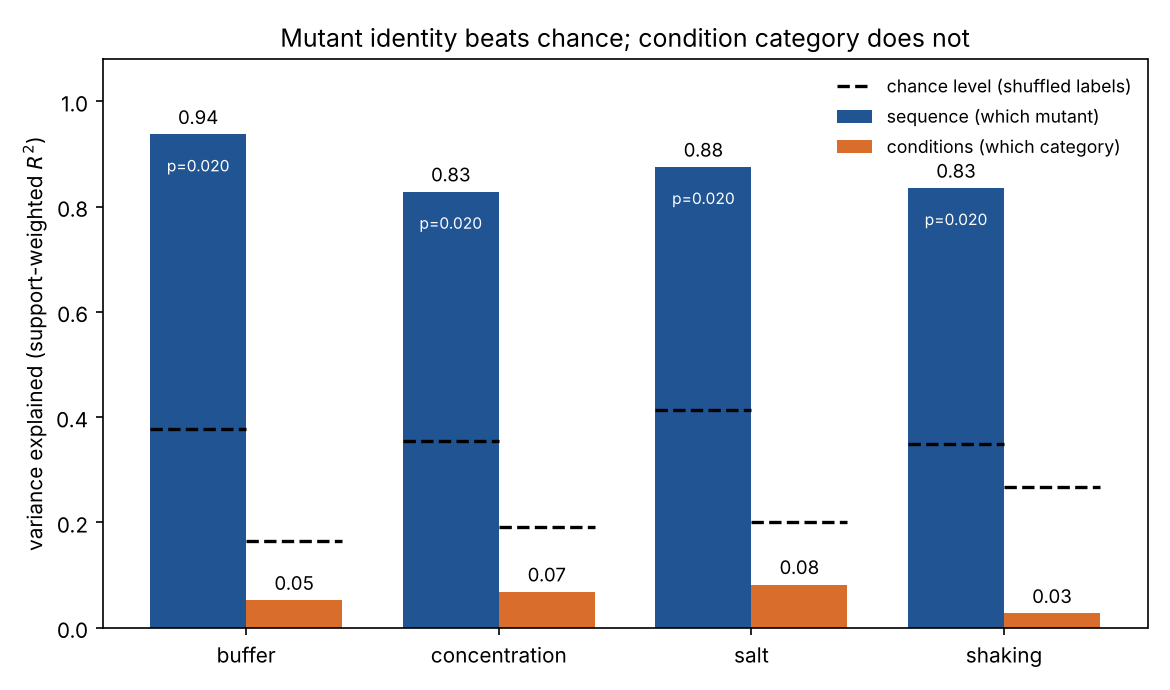
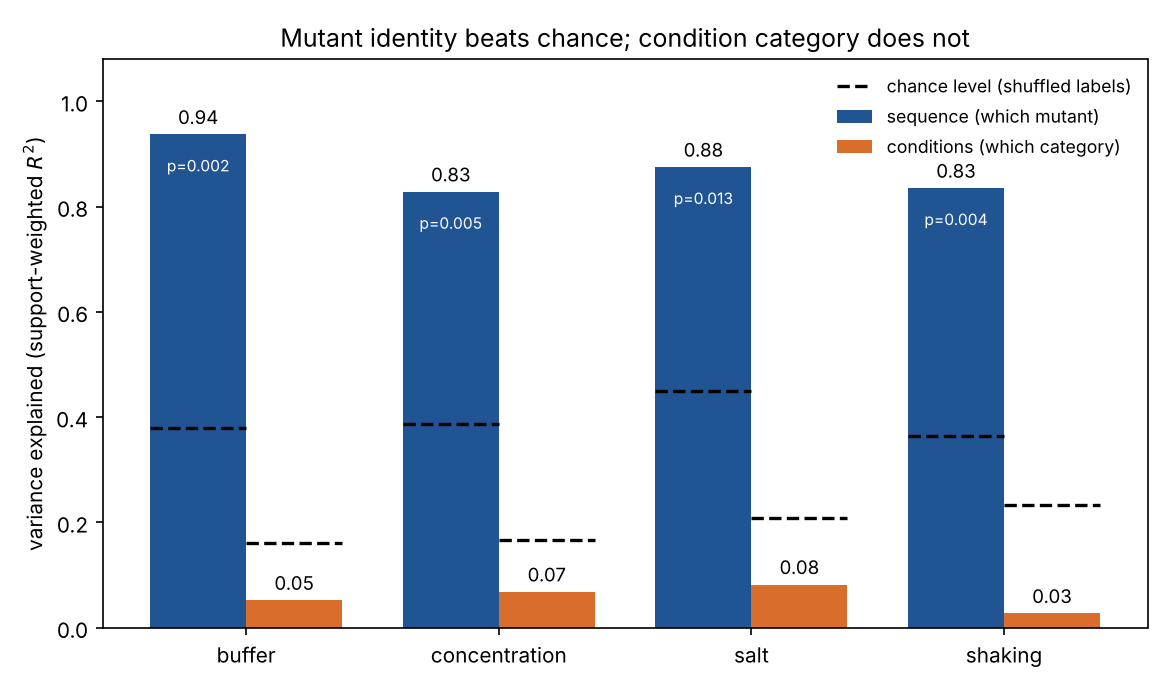
Fix review findings: broken CLI, test side effects, silent failure
1. discordance.py crashed when run as a script. Its __main__ block sat above
   vote_split(), so the function did not exist yet at call time (NameError).
   Moved the block to the end of the file. All 29 tests passed because every
   one imports functions directly; none ran a module as a script.

2. Tests were overwriting the repo's real analysis artifacts. The figure test
   calls si_report.run(n_perm=50), and run() wrote reports/permutation_test.csv
   as a side effect, so pytest replaced the full 1000-permutation output with
   50-permutation values. The committed p_mutant column read 0.0196 for all
   four dimensions, which is 1/51 - the floor of a 50-permutation test, not a
   measured value. The CSV write now lives in the CLI, the figure test writes
   to tmp_path, and the artifacts are regenerated at full resolution
   (p = 0.002-0.013). Published numbers in README and SI_FINDINGS were already
   the correct ones and are unchanged.

3. si_report.run() swallowed every exception around the vote-split figure, so
   a failure would leave a broken image in the README while reporting success.
   Narrowed to FileNotFoundError with a printed message.

4. Removed a dead import in fig_vote_split.

Adds a smoke test running each module as a script, which is the gap that let
finding 1 through. 35 tests green.

diff --git a/src/asyn/si_report.py b/src/asyn/si_report.py
@@ -16,7 +16,7 @@ matplotlib.use("Agg")
 import matplotlib.pyplot as plt  # noqa: E402
 import numpy as np  # noqa: E402
 
-from . import si_analysis  # noqa: E402
+from . import discordance, si_analysis  # noqa: E402
 
 FIG_DIR = Path("reports/figures")
 SEQ_C, COND_C = "#205493", "#d96d2b"
@@ -90,17 +90,14 @@ def _save(fig, name) -> Path:
 def run(n_perm: int = 1000) -> list[Path]:
     df = si_analysis.load()
     perm = si_analysis.permutation_test(df, n_perm=n_perm)
-    Path("reports").mkdir(exist_ok=True)
-    perm.to_csv("reports/permutation_test.csv", index=False)
     figs = [fig_variance(perm), fig_scores_by_mutant(df)]
     types = si_analysis.TYPES_CSV
     if types.exists():
         figs.append(fig_type_by_domain(si_analysis.type_by_domain(si_analysis.load_types())))
     try:
-        from . import discordance
         figs.append(fig_vote_split(discordance.vote_split()))
-    except Exception:
-        pass  # optional: vote reconstruction needs type_scores.csv
+    except FileNotFoundError:
+        print("skipped vote-split figure: data/type_scores.csv missing")
     return figs
 
 
@@ -131,7 +128,6 @@ def fig_type_by_domain(mat) -> Path:
 
 def fig_vote_split(votes, top: int = 14) -> Path:
     """Stacked votes per mutation type: who says accelerate vs reduce."""
-    from . import discordance  # local import: optional analysis
     d = votes.head(top).iloc[::-1]
     labels = [f"{r['type']}  ({r.scope.replace('_',' ')})" for _, r in d.iterrows()]
     y = np.arange(len(d))
@@ -151,5 +147,10 @@ def fig_vote_split(votes, top: int = 14) -> Path:
 
 
 if __name__ == "__main__":
+    _df = si_analysis.load()
+    Path("reports").mkdir(exist_ok=True)
+    si_analysis.permutation_test(_df).to_csv(
+        "reports/permutation_test.csv", index=False)
+    print("wrote reports/permutation_test.csv")
     for p in run():
         print(f"wrote {p}")

diff --git a/src/asyn/discordance.py b/src/asyn/discordance.py
@@ -121,20 +121,6 @@ def run() -> dict:
             "by_region": by_region(t), "headlines": headline_robustness(t)}
 
 
-if __name__ == "__main__":
-    r = run()
-    print(f"extraction sanity — rows breaching the sd bound: {len(r['violations'])}\n")
-    s = r["scored"]
-    print("MOST CONTESTED (literature splits):")
-    print(s.head(8).to_string(index=False))
-    print("\nMOST CONSISTENT:")
-    print(s.tail(6).to_string(index=False))
-    print("\nBY REGION:")
-    print(r["by_region"].to_string(index=False))
-    print("\nMOST SPLIT (papers pointing opposite ways):")
-    print(vote_split().head(5).to_string(index=False))
-    print("\nDO OUR OWN HEADLINES REST ON AGREEMENT?")
-    print(r["headlines"].to_string(index=False))
 
 
 def vote_split(df: pd.DataFrame | None = None, min_support: int = 5) -> pd.DataFrame:
@@ -176,3 +162,18 @@ def vote_split(df: pd.DataFrame | None = None, min_support: int = 5) -> pd.DataF
                "n_reduce", "split", "integrality_error"]]
             .sort_values(["split", "support"], ascending=[False, False])
             .reset_index(drop=True))
+
+if __name__ == "__main__":
+    r = run()
+    print(f"extraction sanity — rows breaching the sd bound: {len(r['violations'])}\n")
+    s = r["scored"]
+    print("MOST CONTESTED (literature splits):")
+    print(s.head(8).to_string(index=False))
+    print("\nMOST CONSISTENT:")
+    print(s.tail(6).to_string(index=False))
+    print("\nBY REGION:")
+    print(r["by_region"].to_string(index=False))
+    print("\nMOST SPLIT (papers pointing opposite ways):")
+    print(vote_split().head(5).to_string(index=False))
+    print("\nDO OUR OWN HEADLINES REST ON AGREEMENT?")
+    print(r["headlines"].to_string(index=False))

diff --git a/tests/test_si.py b/tests/test_si.py
@@ -26,8 +26,11 @@ def test_sequence_explains_more_than_conditions():
     assert (ve["r2_sequence_mutant"] > ve["r2_conditions_category"]).all()
 
 
-def test_si_report_writes_figures():
+def test_si_report_writes_figures(tmp_path, monkeypatch):
     from asyn import si_report
+    # Write into a temp dir: tests must not clobber the repo's real figures,
+    # which are generated at full permutation count by the CLI.
+    monkeypatch.setattr(si_report, "FIG_DIR", tmp_path)
     paths = si_report.run(n_perm=50)  # figures only; rigour lives in the CLI run
     assert len(paths) >= 2 and all(p.exists() and p.stat().st_size > 1000 for p in paths)
 
@@ -141,3 +144,20 @@ def test_proline_substitution_is_unanimous_in_direction():
     assert len(pro) >= 3
     assert (pro["n_accel"] == 0).all()
     assert (pro["split"] == 0).all()
+
+
+@pytest.mark.parametrize("module", [
+    "ingest_si", "ingest_types", "ingest_flagmeier",
+    "si_analysis", "cross_study", "discordance",
+])
+def test_module_runs_as_a_script(module):
+    """Each module documents `python -m asyn.<name>`; check it actually runs.
+
+    si_report is excluded: its CLI writes the repo's real artifacts.
+    """
+    import subprocess, sys, pathlib
+    r = subprocess.run([sys.executable, "-m", f"asyn.{module}"],
+                       cwd=pathlib.Path(__file__).resolve().parent.parent,
+                       env={"PYTHONPATH": "src", "PATH": "/usr/bin:/bin:/usr/local/bin"},
+                       capture_output=True, text=True, timeout=300)
+    assert r.returncode == 0, f"{module} CLI failed:\n{r.stderr[-800:]}"
